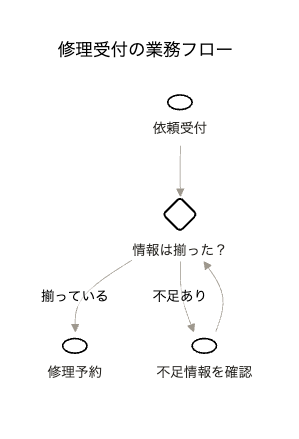
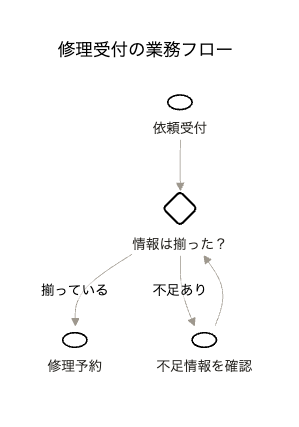
fix: keep business labels inside GitHub previews

diff --git a/.agents/skills/mermaid-diagram-authoring/scripts/check_business_flow.py b/.agents/skills/mermaid-diagram-authoring/scripts/check_business_flow.py
@@ -33,7 +33,7 @@ CANONICAL_THEME_CSS = (
     '.image-shape foreignObject { overflow: visible; } '
     '.image-shape .labelBkg { background-color:#FFFFFF !important; } '
     '.image-shape .label rect { fill:#FFFFFF !important; opacity:1 !important; } '
-    ".image-shape[id*='-flowchart-b_'] .label p { transform: translateY(-6px); }\""
+    ".image-shape[id*='-flowchart-b_'] .label p { margin-top: -6px !important; }\""
 )
 CANONICAL_LINK_STYLE = (
     "linkStyle default stroke:#9E988E,stroke-width:0.75px,fill:none;"

diff --git a/.agents/skills/mermaid-diagram-authoring/scripts/check_context_diagram.py b/.agents/skills/mermaid-diagram-authoring/scripts/check_context_diagram.py
@@ -44,7 +44,7 @@ CANONICAL_THEME_CSS = (
     '.image-shape foreignObject { overflow: visible; } '
     '.image-shape .labelBkg { background-color:#FFFFFF !important; } '
     '.image-shape .label rect { fill:#FFFFFF !important; opacity:1 !important; } '
-    ".image-shape[id*='-flowchart-b_'] .label p { transform: translateY(-6px); }\""
+    ".image-shape[id*='-flowchart-b_'] .label p { margin-top: -6px !important; }\""
 )
 CANONICAL_LINK_STYLE = (
     "linkStyle default stroke:#9E988E,stroke-width:0.75px;"

diff --git a/.agents/skills/mermaid-diagram-authoring/references/icon-context.md b/.agents/skills/mermaid-diagram-authoring/references/icon-context.md
@@ -46,7 +46,7 @@ Keep node properties in this exact order: `img`, `label`, `pos`, `w`, `h`, `cons
 
 The source canvas is square because Mermaid v11 sizes image nodes from the height property. At `30 x 30`, the Lucide path remains a horizontal ellipse with enough visual presence to carry the business subject while staying quieter than the `38 x 38` supporting icons.
 
-Lift only the business label by `6px` to compensate for the ellipse icon's transparent lower canvas. The canonical CSS selects Mermaid image-node IDs containing the stable `-flowchart-b_` prefix because Mermaid does not preserve `class` statement names on image-node DOM elements. Do not shift labels for actors, information, systems, or devices.
+Lift only the business label by `6px` with `margin-top` to compensate for the ellipse icon's transparent lower canvas. Avoid CSS transforms on the HTML label inside Mermaid's SVG `foreignObject`: some GitHub/browser combinations can move that label outside its node. The canonical CSS selects Mermaid image-node IDs containing the stable `-flowchart-b_` prefix because Mermaid does not preserve `class` statement names on image-node DOM elements. Do not shift labels for actors, information, systems, or devices.
 
 ## Labels
 

diff --git a/.agents/skills/mermaid-diagram-authoring/references/business-flow.md b/.agents/skills/mermaid-diagram-authoring/references/business-flow.md
@@ -18,7 +18,7 @@ Keep property order `img`, `label`, `pos`, `w`, `h`, `constraint` and one node p
 
 The square source canvas matches Mermaid v11's rendered image bounds. At `30 x 30`, the Lucide path remains a horizontal ellipse, keeps the label close, and no longer reads as a minor marker beside the `38 x 38` decision symbol.
 
-Lift only the activity label by `6px` to compensate for the ellipse icon's transparent lower canvas. The canonical CSS selects Mermaid image-node IDs containing the stable `-flowchart-b_` prefix because Mermaid does not preserve `class` statement names on image-node DOM elements. Do not shift decision labels.
+Lift only the activity label by `6px` with `margin-top` to compensate for the ellipse icon's transparent lower canvas. Avoid CSS transforms on the HTML label inside Mermaid's SVG `foreignObject`: some GitHub/browser combinations can move that label outside its node. The canonical CSS selects Mermaid image-node IDs containing the stable `-flowchart-b_` prefix because Mermaid does not preserve `class` statement names on image-node DOM elements. Do not shift decision labels.
 
 ## Scope and direction
 

diff --git a/examples/repair-intake/flow.md b/examples/repair-intake/flow.md
@@ -22,7 +22,7 @@ config:
     edgeLabelBackground: "#FFFFFF"
     fontFamily: "Inter, Hiragino Sans, sans-serif"
     fontSize: "14px"
-  themeCSS: ".image-shape p { padding: 0 !important; background-color:#FFFFFF !important; } .image-shape foreignObject { overflow: visible; } .image-shape .labelBkg { background-color:#FFFFFF !important; } .image-shape .label rect { fill:#FFFFFF !important; opacity:1 !important; } .image-shape[id*='-flowchart-b_'] .label p { transform: translateY(-6px); }"
+  themeCSS: ".image-shape p { padding: 0 !important; background-color:#FFFFFF !important; } .image-shape foreignObject { overflow: visible; } .image-shape .labelBkg { background-color:#FFFFFF !important; } .image-shape .label rect { fill:#FFFFFF !important; opacity:1 !important; } .image-shape[id*='-flowchart-b_'] .label p { margin-top: -6px !important; }"
 ---
 flowchart TB
   b_receive_request@{ img: "https://raw.githubusercontent.com/maakbo/fde/main/assets/icons/lucide-thin/ellipse.svg", label: "依頼受付", pos: "b", w: 30, h: 30, constraint: "on" }

diff --git a/examples/repair-intake/overview.md b/examples/repair-intake/overview.md
@@ -22,7 +22,7 @@ config:
     edgeLabelBackground: "#FFFFFF"
     fontFamily: "Inter, Hiragino Sans, sans-serif"
     fontSize: "14px"
-  themeCSS: ".image-shape p { padding: 0 !important; background-color:#FFFFFF !important; } .image-shape foreignObject { overflow: visible; } .image-shape .labelBkg { background-color:#FFFFFF !important; } .image-shape .label rect { fill:#FFFFFF !important; opacity:1 !important; } .image-shape[id*='-flowchart-b_'] .label p { transform: translateY(-6px); }"
+  themeCSS: ".image-shape p { padding: 0 !important; background-color:#FFFFFF !important; } .image-shape foreignObject { overflow: visible; } .image-shape .labelBkg { background-color:#FFFFFF !important; } .image-shape .label rect { fill:#FFFFFF !important; opacity:1 !important; } .image-shape[id*='-flowchart-b_'] .label p { margin-top: -6px !important; }"
 ---
 flowchart TB
   b_manage_intake@{ img: "https://raw.githubusercontent.com/maakbo/fde/main/assets/icons/lucide-thin/ellipse.svg", label: "受付管理", pos: "b", w: 30, h: 30, constraint: "on" }

diff --git a/templates/business-flow.md b/templates/business-flow.md
@@ -22,7 +22,7 @@ config:
     edgeLabelBackground: "#FFFFFF"
     fontFamily: "Inter, Hiragino Sans, sans-serif"
     fontSize: "14px"
-  themeCSS: ".image-shape p { padding: 0 !important; background-color:#FFFFFF !important; } .image-shape foreignObject { overflow: visible; } .image-shape .labelBkg { background-color:#FFFFFF !important; } .image-shape .label rect { fill:#FFFFFF !important; opacity:1 !important; } .image-shape[id*='-flowchart-b_'] .label p { transform: translateY(-6px); }"
+  themeCSS: ".image-shape p { padding: 0 !important; background-color:#FFFFFF !important; } .image-shape foreignObject { overflow: visible; } .image-shape .labelBkg { background-color:#FFFFFF !important; } .image-shape .label rect { fill:#FFFFFF !important; opacity:1 !important; } .image-shape[id*='-flowchart-b_'] .label p { margin-top: -6px !important; }"
 ---
 flowchart TB
   b_receive@{ img: "https://raw.githubusercontent.com/maakbo/fde/main/assets/icons/lucide-thin/ellipse.svg", label: "受付", pos: "b", w: 30, h: 30, constraint: "on" }

diff --git a/templates/icon-context.md b/templates/icon-context.md
@@ -20,7 +20,7 @@ config:
     lineColor: "#8A847A"
     fontFamily: "Inter, Hiragino Sans, sans-serif"
     fontSize: "14px"
-  themeCSS: ".image-shape p { padding: 0 !important; background-color:#FFFFFF !important; } .image-shape foreignObject { overflow: visible; } .image-shape .labelBkg { background-color:#FFFFFF !important; } .image-shape .label rect { fill:#FFFFFF !important; opacity:1 !important; } .image-shape[id*='-flowchart-b_'] .label p { transform: translateY(-6px); }"
+  themeCSS: ".image-shape p { padding: 0 !important; background-color:#FFFFFF !important; } .image-shape foreignObject { overflow: visible; } .image-shape .labelBkg { background-color:#FFFFFF !important; } .image-shape .label rect { fill:#FFFFFF !important; opacity:1 !important; } .image-shape[id*='-flowchart-b_'] .label p { margin-top: -6px !important; }"
 ---
 flowchart LR
   a_requester@{ img: "https://raw.githubusercontent.com/maakbo/fde/main/assets/icons/lucide-thin/user.svg", label: "依頼者", pos: "b", w: 38, h: 38, constraint: "on" }

diff --git a/examples/repair-intake/context.md b/examples/repair-intake/context.md
@@ -20,7 +20,7 @@ config:
     lineColor: "#8A847A"
     fontFamily: "Inter, Hiragino Sans, sans-serif"
     fontSize: "14px"
-  themeCSS: ".image-shape p { padding: 0 !important; background-color:#FFFFFF !important; } .image-shape foreignObject { overflow: visible; } .image-shape .labelBkg { background-color:#FFFFFF !important; } .image-shape .label rect { fill:#FFFFFF !important; opacity:1 !important; } .image-shape[id*='-flowchart-b_'] .label p { transform: translateY(-6px); }"
+  themeCSS: ".image-shape p { padding: 0 !important; background-color:#FFFFFF !important; } .image-shape foreignObject { overflow: visible; } .image-shape .labelBkg { background-color:#FFFFFF !important; } .image-shape .label rect { fill:#FFFFFF !important; opacity:1 !important; } .image-shape[id*='-flowchart-b_'] .label p { margin-top: -6px !important; }"
 ---
 flowchart LR
   a_customer@{ img: "https://raw.githubusercontent.com/maakbo/fde/main/assets/icons/lucide-thin/user.svg", label: "顧客", pos: "b", w: 38, h: 38, constraint: "on" }
